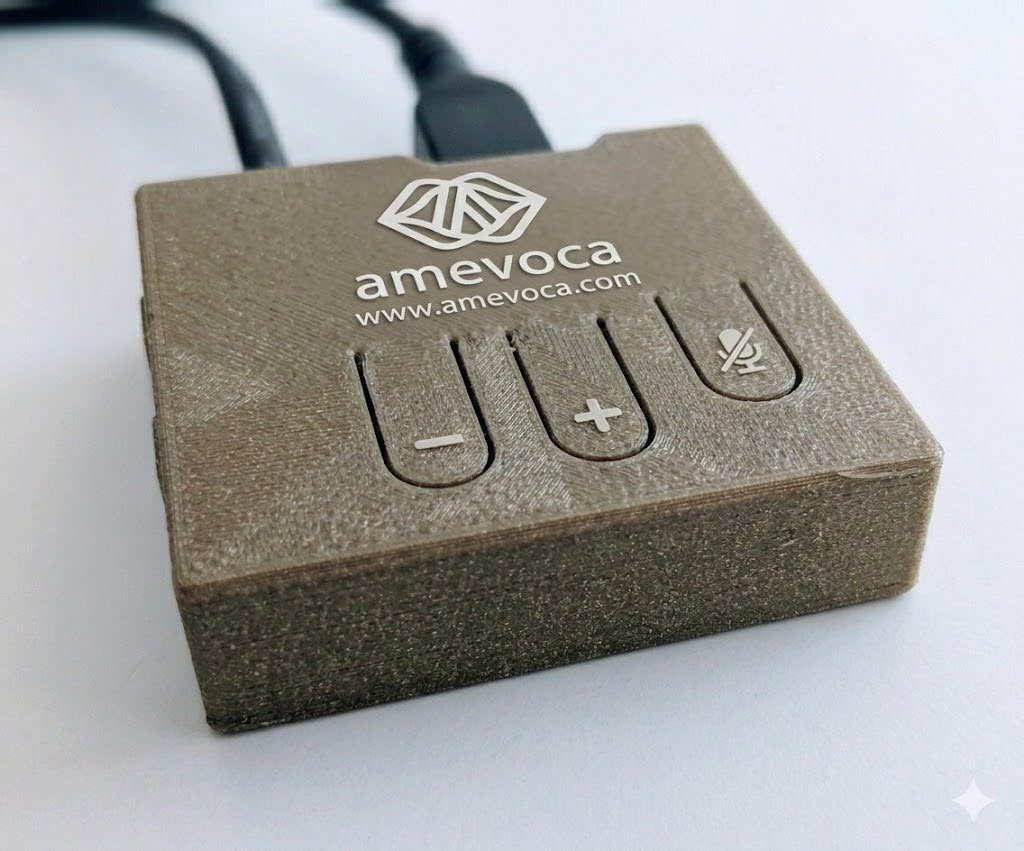
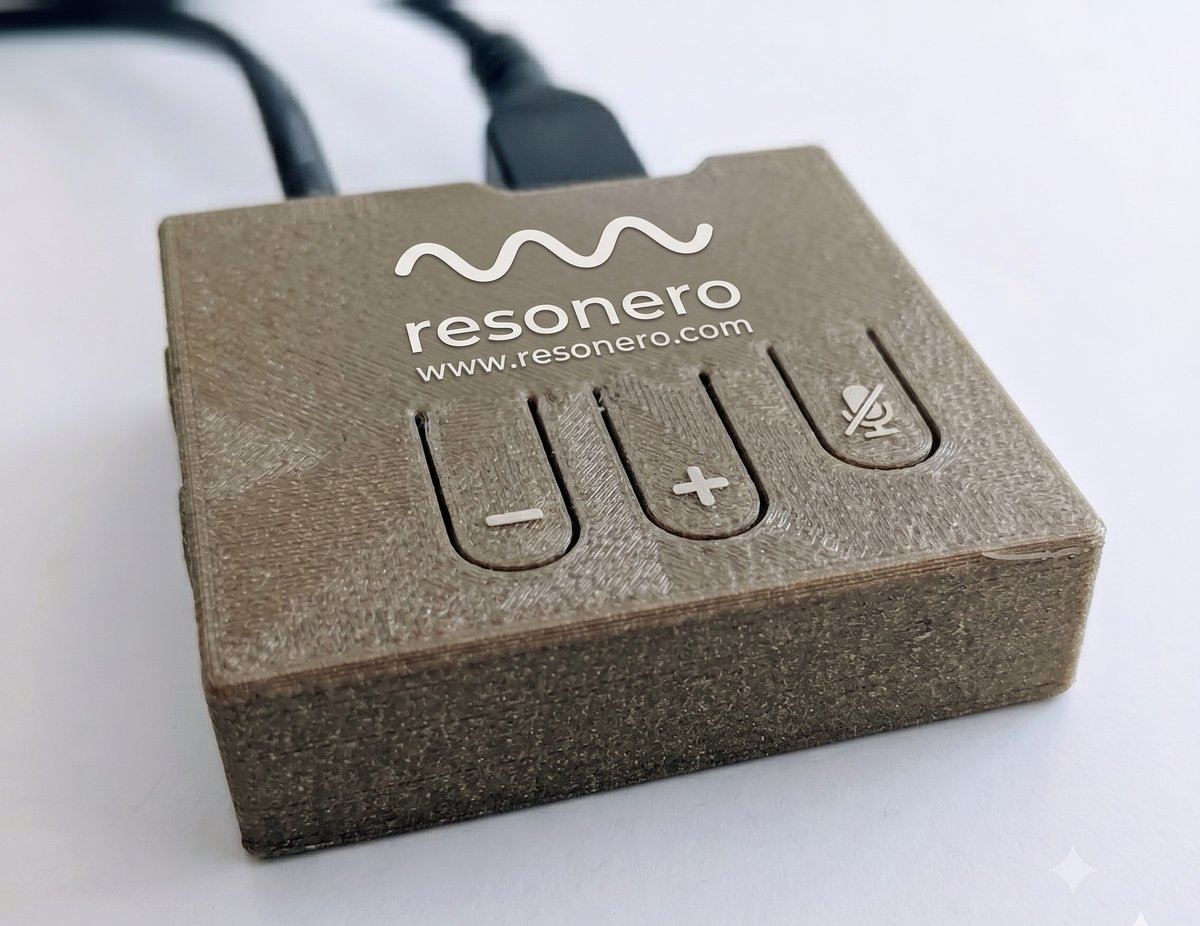
updated synthesized images.  fixed first summary of device on index

Changed region(s): [[0.0, 0.0306, 0.9375, 0.9777]]

diff --git a/index.html b/index.html
@@ -68,15 +68,17 @@
       </div>
       <div>
         <h4 style="margin-bottom:.75rem;color:var(--purple-b);">Everybody else</h4>
-        <p>At social distances, vocal pitch is barely audible — but like many mammals, people infer it from the rest of the voice. Not everyone does this reliably. You may sound shrill or pushy without knowing it. Or misread someone's mood entirely.</p>
+        <p>Most of us cringe at recordings of ourselves. Something always sounds off — too pushy, too cold, too shrill. There's a reason for that.</p>
       </div>
     </div>
 
     <div style="border-top:1px solid var(--bg-rule);padding-top:2rem;">
-      <h4 style="margin-bottom:.75rem;color:var(--text);">Resonero facilitates clarity</h4>
+      <h4 style="margin-bottom:.75rem;color:var(--text);">Resonero facilitates social resonance</h4>
       <div style="display:grid;grid-template-columns:1fr 140px;gap:2rem;align-items:center;" class="device-mini-grid">
         <div>
-          <p style="margin:0 0 1rem;">Resonero subtly modifies a room's acoustics so that the sound of intonation is clear — to speakers and listeners alike. A processor and a speaker on a cable. Sits on a shelf. No app, no interface, no adjustment.</p>
+          <p style="margin:0 0 .75rem;">At social distances, vocal pitch is barely audible — but like many mammals, people infer it from the rest of the voice. Not everyone does this reliably. Resonero delivers what the room has always been missing.</p>
+          <p style="margin:0 0 .5rem;">Resonero subtly modifies a room's acoustics so that the sound of intonation is clear — to speakers and listeners alike.</p>
+          <p style="margin:0 0 1.25rem;font-size:.95rem;color:var(--text-muted);">A Resonero system consists of a small speaker and an unobtrusive intonation processor — placed on a shelf for home and office use, or clipped to your bag strap for meetings and classrooms.</p>
           <p style="font-family:var(--serif);font-style:italic;color:var(--text-faint);font-size:1.05rem;margin:0 0 1.25rem;">your voice, finally heard the way you mean it.</p>
           <div class="btns" style="margin-bottom:1.25rem;">
             <a class="btn btn--primary" href="preorder.html">pre-order</a>
@@ -84,10 +86,11 @@
             <a class="btn btn--outline" href="why-it-works.html">how it works</a>
           </div>
           <a href="#products" style="font-family:var(--mono);font-size:.72rem;letter-spacing:.06em;color:var(--accent);text-decoration:none;display:inline-block;margin-bottom:.5rem;">skip to products ↓</a>
-          <p style="font-family:var(--mono);font-size:.68rem;color:var(--text-faint);line-height:1.8;margin:0;">or use the nav above: <a href="why-it-works.html" style="color:var(--accent);">why it works</a> (the physics) · <a href="illusion.html" style="color:var(--accent);">the illusion</a> (hear it yourself) · <a href="experiences.html" style="color:var(--accent);">experiences</a> (what users say) · <a href="social-fluency.html" style="color:var(--accent);">social resonance</a> (why it matters — and resonates) · <a href="science.html" style="color:var(--accent);">science</a> (the research) · <a href="founder-story.html" style="color:var(--accent);">our story</a> (how this came to be) · <a href="products.html" style="color:var(--accent);">products</a> (home and go)</p>
+          <p style="font-family:var(--mono);font-size:.68rem;color:var(--text-faint);line-height:1.8;margin:0;">or use the nav above: <a href="why-it-works.html" style="color:var(--accent);">why it works</a> (the physics) · <a href="illusion.html" style="color:var(--accent);">the illusion</a> (hear it yourself) · <a href="experiences.html" style="color:var(--accent);">experiences</a> (what users say) · <a href="social-fluency.html" style="color:var(--accent);">social resonance</a> (why it matters) · <a href="science.html" style="color:var(--accent);">science</a> (the research) · <a href="founder-story.html" style="color:var(--accent);">our story</a> (how this came to be) · <a href="products.html" style="color:var(--accent);">products</a> (home and go)</p>
         </div>
         <div>
-          <img src="img/processor-detail.jpg" alt="Resonero acoustic processor" style="width:100%;border-radius:var(--r);box-shadow:0 2px 12px rgba(44,44,42,.12);display:block;">
+          <img src="img/processor-detail.jpg" alt="Resonero acoustic processor" style="width:100%;border-radius:var(--r);box-shadow:0 2px 12px rgba(44,44,42,.12);display:block;margin-bottom:.75rem;">
+          <img src="img/go-hallway.jpg" alt="Resonero Go clipped to bag strap in university hallway" style="width:100%;border-radius:var(--r);box-shadow:0 2px 12px rgba(44,44,42,.12);display:block;">
         </div>
       </div>
     </div>

diff --git a/products.html b/products.html
@@ -126,7 +126,9 @@
         </div>
       </div>
       <div>
-        <img src="img/go-kit.jpg" alt="Resonero Go — compact speaker, processor, and power bank" class="product-img product-img--shadow" style="margin-bottom:1rem;">
+        <img src="img/go-hallway.jpg" alt="Resonero Go clipped to bag strap in hallway — working continuously" class="product-img product-img--shadow" style="margin-bottom:.75rem;">
+        <p class="img-caption">resonero go — processor clipped to bag strap, working continuously</p>
+        <img src="img/go-kit.jpg" alt="Resonero Go — compact speaker, processor, and power bank" class="product-img product-img--shadow" style="margin-top:.75rem;margin-bottom:1rem;">
         <p class="img-caption">resonero go — compact speaker + processor + usb power bank</p>
         <h4 style="margin-top:1.5rem;">what's in the box</h4>
         <div class="numbered" style="margin-top:1rem;margin-bottom:0;">

diff --git a/social-fluency.html b/social-fluency.html
@@ -125,6 +125,11 @@
       <p>Conversations at work stopped feeling like work. Something got easier that I didn't have a name for before. I stopped running the analysis in the background — the constant second-guessing of what people meant.</p>
       <cite>early user — resonero go</cite>
     </div>
+
+    <div style="margin-top:1.5rem;max-width:560px;">
+      <img src="img/go-hallway.jpg" alt="Resonero Go clipped to bag strap — working continuously in the hallway" class="product-img product-img--shadow">
+      <p class="img-caption">resonero go — processor clipped to bag strap, working continuously in the hallway and classroom</p>
+    </div>
   </div>
 </section>
 
